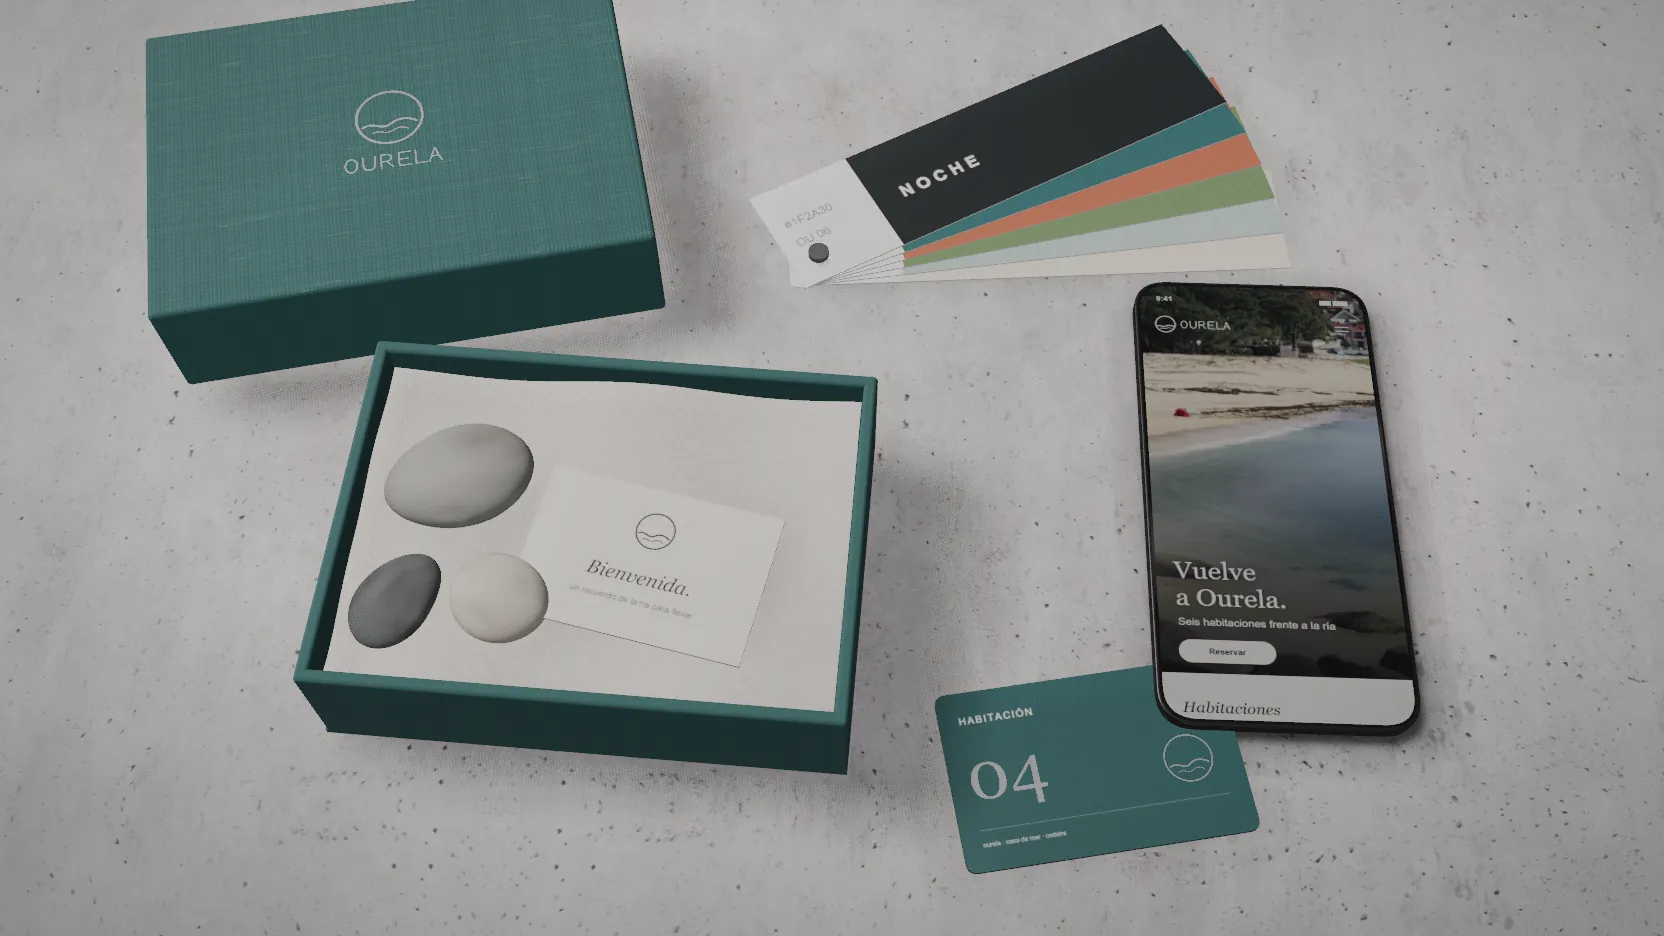
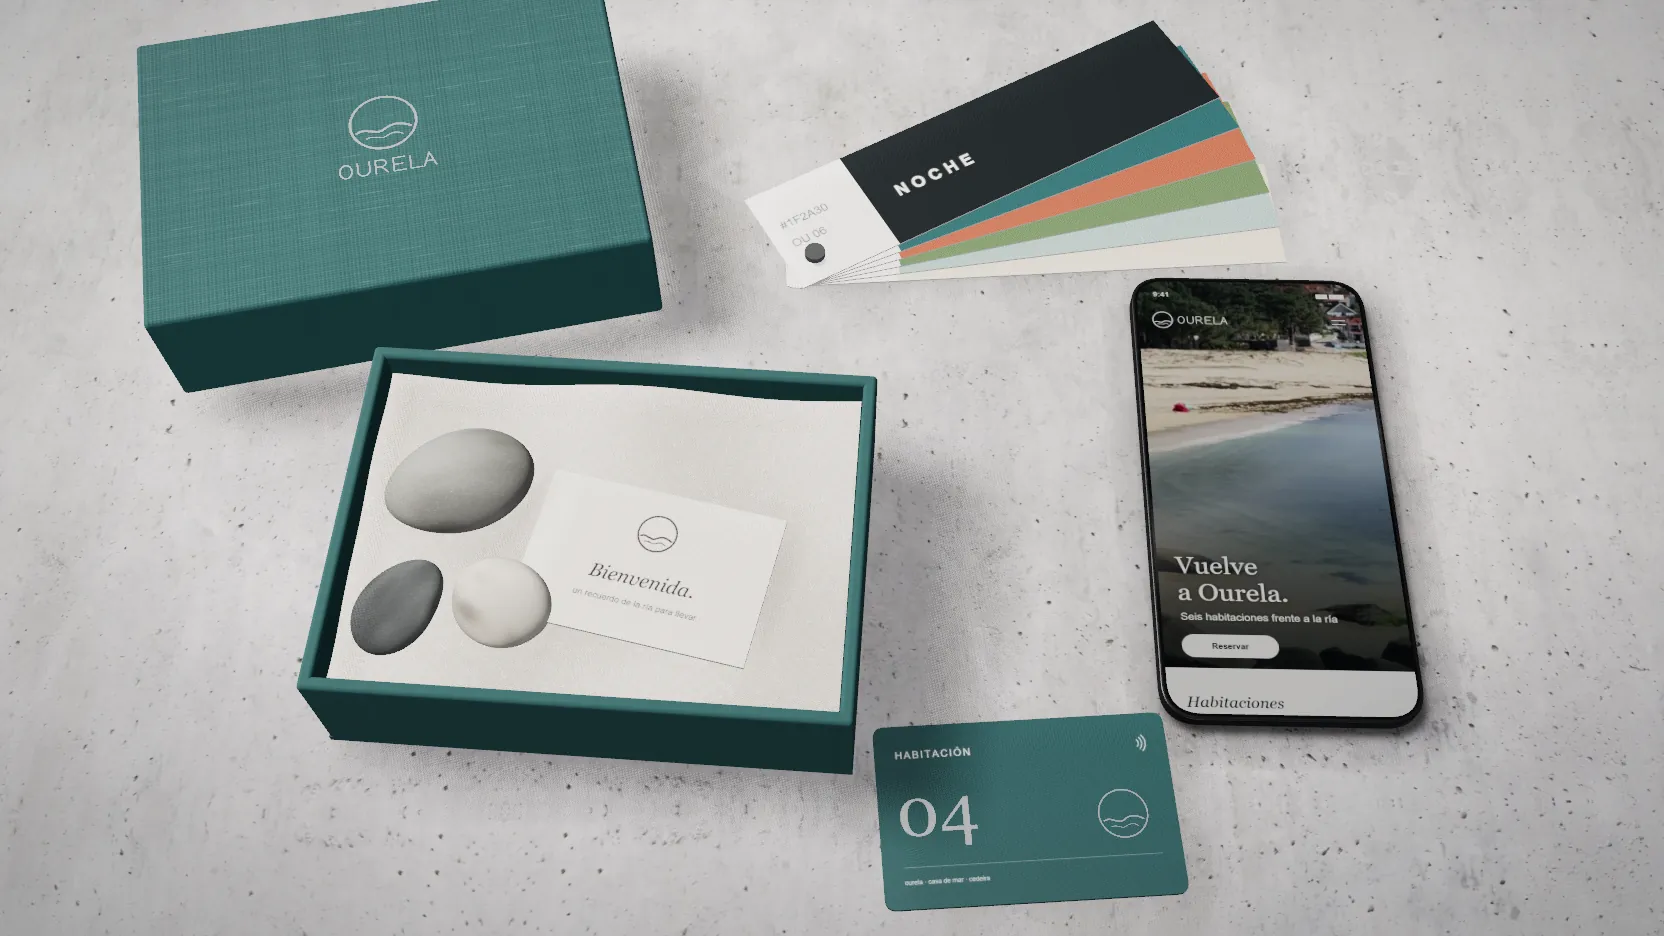
Identity scene: the room key clear of the phone, phone framing eased; both loading stills redone

diff --git a/src/components/Identity/StationeryScene.tsx b/src/components/Identity/StationeryScene.tsx
@@ -33,7 +33,8 @@ const LETTERS: Record<string, string> = {
 const ADV = [0, 150, 300, 450, 592, 704];
 const WORD_W = 804;
 // where the room key comes to rest, in front of the box and the phone
-const KEY_AT = [0.72, 1.0] as const;
+// (clear of the phone: laid partly under it, the phone seemed to sink into the card)
+const KEY_AT = [0.5, 1.15] as const;
 
 async function build(host: HTMLDivElement, onReady: () => void, paused: { current: boolean } = { current: false }): Promise<() => void> {
   // stills from the studio's own film, printed in the brochure and shown on the phone's site
@@ -667,7 +668,7 @@ async function build(host: HTMLDivElement, onReady: () => void, paused: { curren
     foil.position.y = 0.0135;
     key.add(slab, foil, contact(KW, KD));
     key.position.set(KEY_AT[0], 0, KEY_AT[1]);
-    key.rotation.y = 0.16;
+    key.rotation.y = 0.05;
     add(key);
   }
 
@@ -1408,7 +1409,7 @@ async function build(host: HTMLDivElement, onReady: () => void, paused: { curren
     // (never closer than the wide frame's 30°: a frame just short of 16:9, as the studio's can be by a pixel,
     // used to jump in close)
     // (wide and nearly wide frames all at 30°; only a phone's narrow one gets its own, closer view)
-    camera.fov = camera.aspect >= 1.4 ? 30 : THREE.MathUtils.radToDeg(2 * Math.atan((Math.tan(half) * 0.76) / camera.aspect));
+    camera.fov = camera.aspect >= 1.4 ? 30 : THREE.MathUtils.radToDeg(2 * Math.atan((Math.tan(half) * 0.84) / camera.aspect));
     // a narrow frame (a phone's) also aims a little further back on the table, so the pieces sit lower and
     // no empty band is left beneath them
     aimBack = camera.aspect >= 1.4 ? 0.1 : 0.2;

diff --git a/src/pages/About/ServicesShowcase.tsx b/src/pages/About/ServicesShowcase.tsx
@@ -41,7 +41,7 @@ if (typeof window !== "undefined") {
 // at once while the live scene loads behind it, which then fades in over it
 type Example ={ img?: string; video?: string; frame?: string; scene?: keyof typeof SCENES; poster?: string; seen: string[]; link?: string };
 
-const POSTER_V = 10;
+const POSTER_V = 11;
 
 // the way into the full example, where an example has one
 const OPEN: Record<string, string> = { es: "Ver el plano en 3D", en: "See the floor plan in 3D", fr: "Voir le plan en 3D", de: "Den Grundriss in 3D ansehen" };
